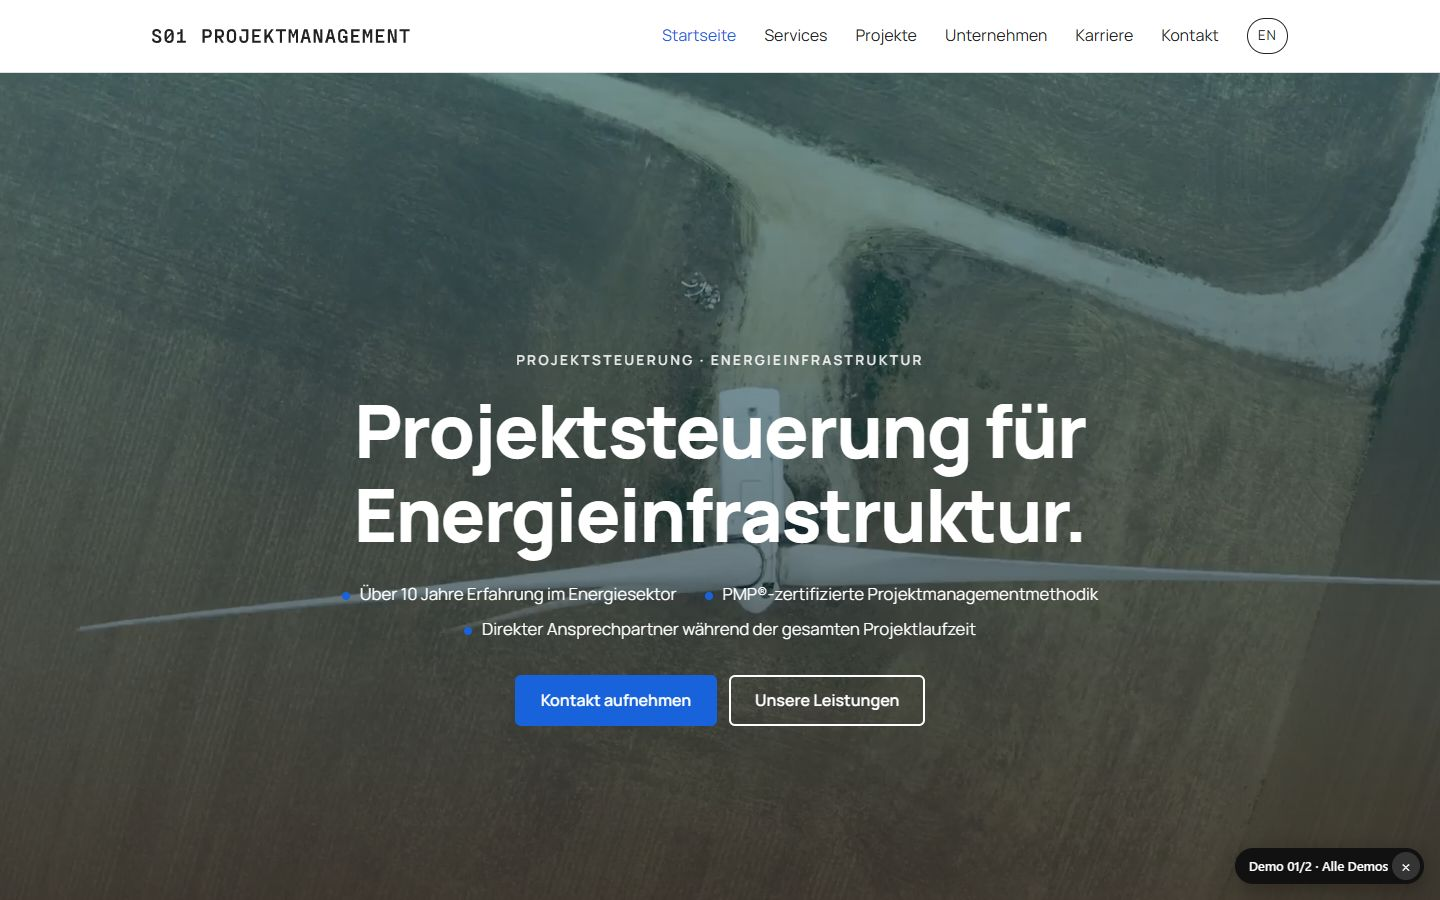
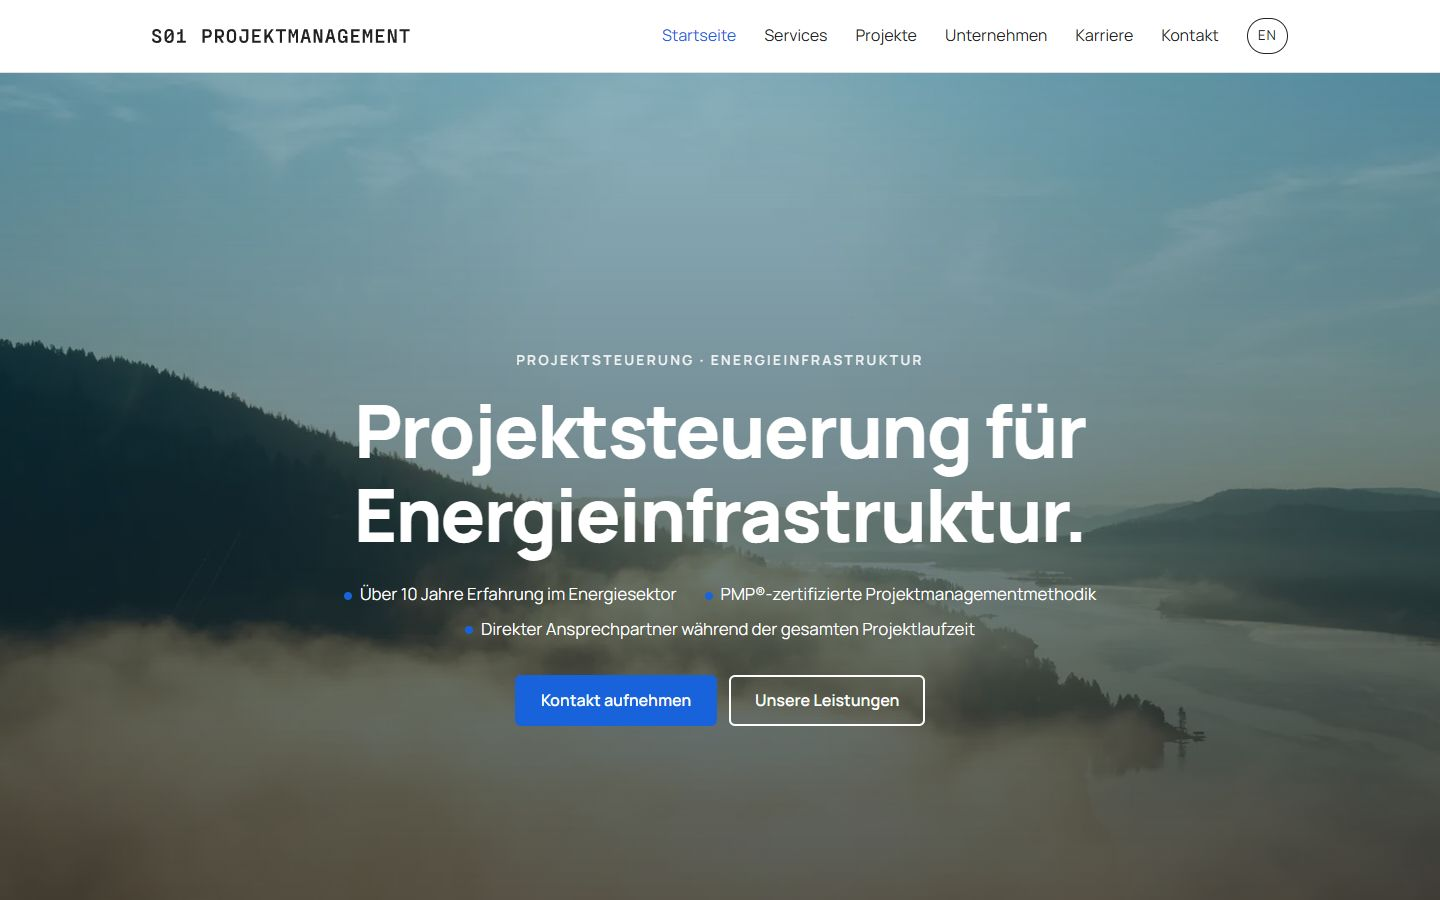
Reproducible poster-based thumbnails, font-error filter, unknown-id guard, mobile hero tweaks
Claude-Session: https://claude.ai/code/session_01MvgPpcENZGA6QrERHRxL79

diff --git a/build/shots.js b/build/shots.js
@@ -19,6 +19,11 @@ const demos = readdirSync(out, { withFileTypes: true })
   .map((e) => e.name)
   .sort()
   .filter((id) => !only.length || only.includes(id));
+const unknown = only.filter((id) => !demos.includes(id));
+if (unknown.length) {
+  console.error(`Unknown demo id(s): ${unknown.join(', ')}`);
+  process.exit(1);
+}
 
 const server = await startServer({ dir: out });
 const browser = await launchBrowser();
@@ -27,7 +32,12 @@ const problems = [];
 async function open(context, url) {
   const page = await context.newPage();
   const errors = [];
-  page.on('console', (m) => { if (m.type() === 'error') errors.push(`console: ${m.text()}`); });
+  page.on('console', (m) => {
+    if (m.type() !== 'error') return;
+    const where = m.location() && m.location().url ? m.location().url : '';
+    if (/fonts\.(googleapis|gstatic)\.com/.test(where) || /fonts\.(googleapis|gstatic)\.com/.test(m.text())) return;
+    errors.push(`console: ${m.text()}`);
+  });
   page.on('pageerror', (e) => errors.push(`pageerror: ${e.message}`));
   page.on('requestfailed', (r) => {
     const f = r.failure();
@@ -53,21 +63,31 @@ for (const id of demos) {
   const navLinks = await home.page.locator('#site-menu a').count();
   if (videos !== 1) home.errors.push(`expected 1 hero video, found ${videos}`);
   if (navLinks < 6) home.errors.push(`expected at least 6 nav links, found ${navLinks}`);
-  await home.page.screenshot({ path: join(root, 'assets/thumbs', `${id}.jpg`), type: 'jpeg', quality: 80 });
+  // Thumbnails must be reproducible: show the poster frame instead of the live video, hide the demo badge.
+  await home.page.evaluate(() => {
+    const badge = document.querySelector('[data-badge]');
+    if (badge) badge.hidden = true;
+    const v = document.querySelector('video.hero-video');
+    if (v) {
+      v.pause();
+      v.style.display = 'none';
+    }
+  });
+  await home.page.screenshot({ path: join(root, 'assets/thumbs', `${id}.jpg`), type: 'jpeg', quality: 80, animations: 'disabled' });
   problems.push(...home.errors.map(label));
   await home.page.close();
 
   const services = await open(desktop, `${server.url}/${id}/en/${slugs.en.services}`);
   const anchors = await services.page.locator('#risk').count();
   if (anchors !== 1) services.errors.push(`services page: expected id="risk", found ${anchors}`);
-  problems.push(...services.errors.map((s) => label(`services ${s}`)));
+  problems.push(...services.errors.map((s) => label(`services page: ${s}`)));
   await services.page.close();
 
   const m = await open(mobile, `${server.url}/${id}/de/${slugs.de.home}`);
   const burgerVisible = await m.page.locator('.nav-burger').isVisible();
-  if (!burgerVisible) m.errors.push('mobile: burger button not visible');
+  if (!burgerVisible) m.errors.push('burger button not visible');
   await m.page.screenshot({ path: join(root, '.shots', `${id}-mobile.png`), fullPage: false });
-  problems.push(...m.errors.map((s) => label(`mobile ${s}`)));
+  problems.push(...m.errors.map((s) => label(`mobile home: ${s}`)));
   await m.page.close();
 
   await desktop.close();

diff --git a/kit/base.css b/kit/base.css
@@ -216,6 +216,9 @@ body.nav-transparent-layout:not(.page-home) .nav-transparent:not(.is-scrolled), 
 .scroll-cue span { width: 4px; height: 8px; margin-top: 8px; border-radius: 2px; background: #fff; animation: cue 1.8s infinite; }
 @keyframes cue { 0% { transform: translateY(0); opacity: 1; } 70% { transform: translateY(14px); opacity: 0; } 100% { opacity: 0; } }
 .hero-split .scroll-cue { display: none; }
+@media (max-width: 639px) { .scroll-cue { display: none; } }
+.hero-centered .hero-bullets li { padding-left: 0; }
+.hero-centered .hero-bullets li::before { position: static; display: inline-block; margin-right: 8px; vertical-align: middle; }
 
 /* snap mode */
 html:has(body.snap-home) { scroll-snap-type: y proximity; scroll-padding-top: 0; }
